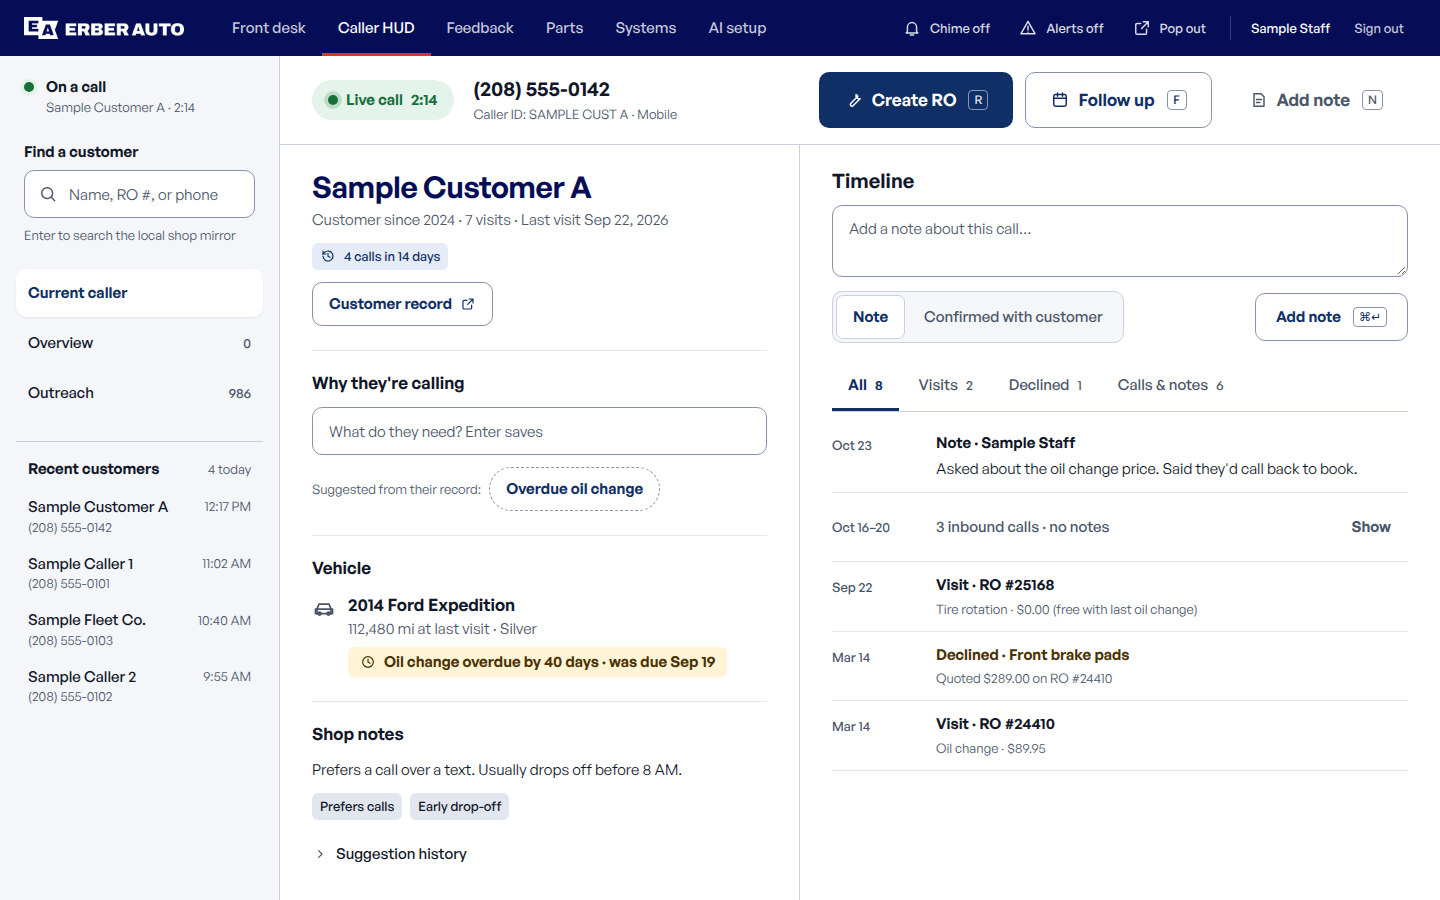
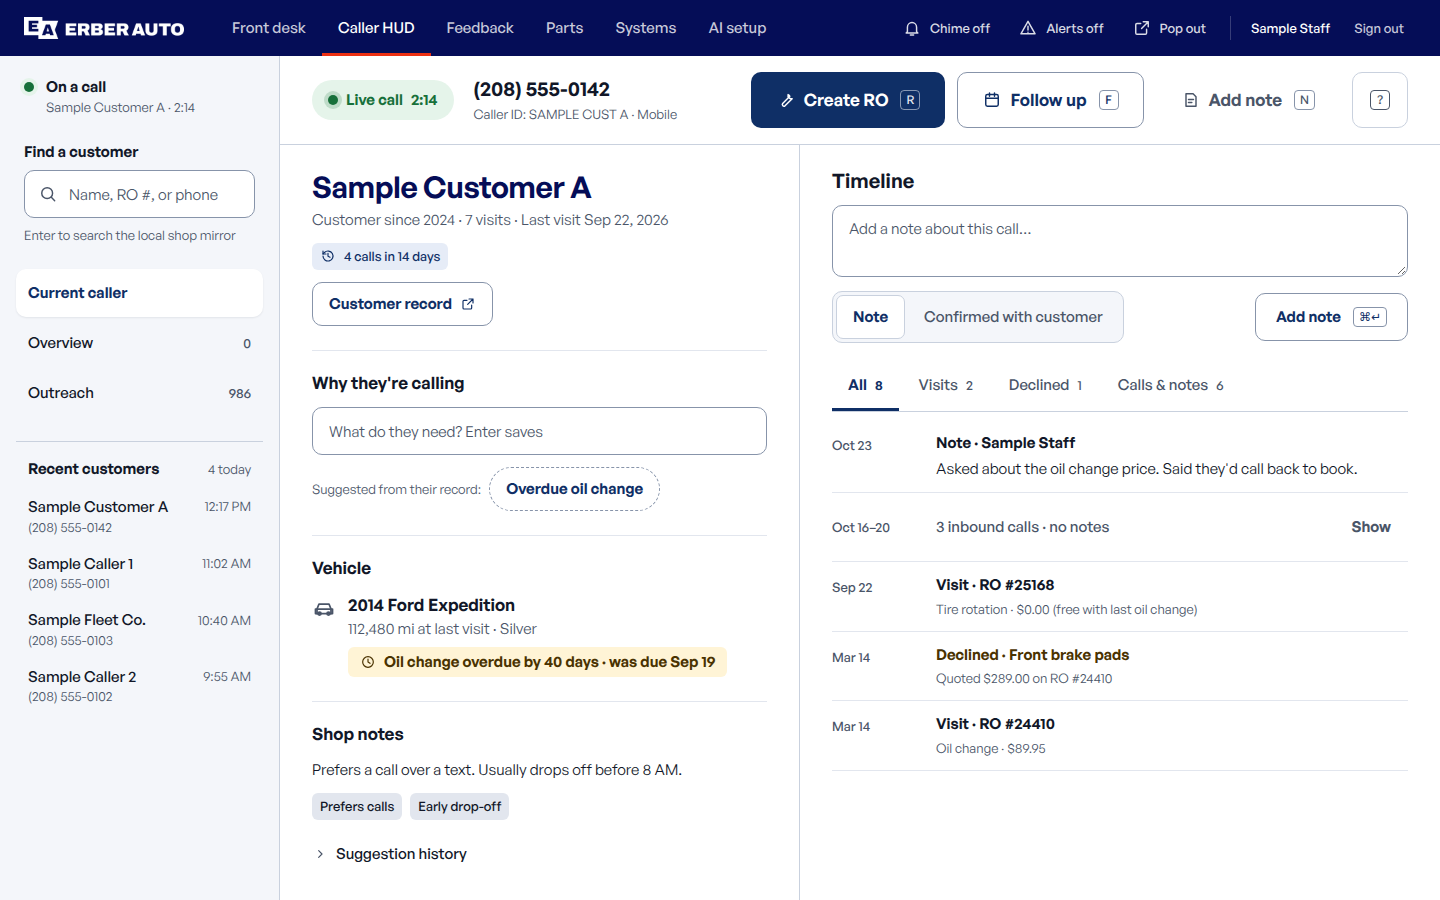
Caller HUD hill-climb round 5: keyboard shortcut sheet

Changed region(s): [[0.5, 0.0622, 0.9688, 0.1556]]

diff --git a/caller-hud-review/mockup.html b/caller-hud-review/mockup.html
@@ -24,6 +24,7 @@
     <symbol id="i-car" viewBox="0 0 24 24"><path d="M5 16.5V12l2-5h10l2 5v4.5"/><path d="M3.5 12h17v4.5h-17Z"/><circle cx="7.5" cy="16.5" r="1.5"/><circle cx="16.5" cy="16.5" r="1.5"/></symbol>
     <symbol id="i-user-plus" viewBox="0 0 24 24"><circle cx="10" cy="8.5" r="3.5"/><path d="M3.5 19.5a6.5 6.5 0 0 1 13 0"/><path d="M18.5 8v6M15.5 11h6"/></symbol>
     <symbol id="i-link" viewBox="0 0 24 24"><path d="M10 14a4 4 0 0 0 5.7 0l3-3a4 4 0 0 0-5.7-5.7l-1 1"/><path d="M14 10a4 4 0 0 0-5.7 0l-3 3a4 4 0 0 0 5.7 5.7l1-1"/></symbol>
+    <symbol id="i-close" viewBox="0 0 24 24"><path d="m6.5 6.5 11 11M17.5 6.5l-11 11"/></symbol>
     <symbol id="i-chevron" viewBox="0 0 24 24"><path d="m7 10 5 5 5-5"/></symbol>
     <symbol id="i-clock" viewBox="0 0 24 24"><circle cx="12" cy="12" r="8"/><path d="M12 7.5V12l3 2"/></symbol>
     <symbol id="i-history" viewBox="0 0 24 24"><path d="M4.5 12a7.5 7.5 0 1 0 2.2-5.3L4.5 9"/><path d="M4.5 4.5V9H9M12 8v4.5l3 1.5"/></symbol>
@@ -116,11 +117,13 @@
         <button class="btn btn-primary btn-lg" aria-keyshortcuts="r"><svg class="ico" aria-hidden="true"><use href="#i-wrench"/></svg>Create RO <kbd aria-hidden="true">R</kbd></button>
         <button class="btn btn-secondary btn-lg" aria-keyshortcuts="f"><svg class="ico" aria-hidden="true"><use href="#i-calendar"/></svg>Follow up <kbd aria-hidden="true">F</kbd></button>
         <button class="btn btn-ghost btn-lg" aria-keyshortcuts="n"><svg class="ico" aria-hidden="true"><use href="#i-note"/></svg>Add note <kbd aria-hidden="true">N</kbd></button>
+        <button class="keys-btn" popovertarget="shortcuts" aria-keyshortcuts="?" aria-label="Keyboard shortcuts"><kbd aria-hidden="true">?</kbd></button>
       </div>
       <div class="call-actions" data-only="unknown">
         <button class="btn btn-primary btn-lg"><svg class="ico" aria-hidden="true"><use href="#i-user-plus"/></svg>Create customer</button>
         <button class="btn btn-secondary btn-lg"><svg class="ico" aria-hidden="true"><use href="#i-link"/></svg>Link to a customer</button>
         <button class="btn btn-ghost btn-lg" aria-keyshortcuts="n"><svg class="ico" aria-hidden="true"><use href="#i-note"/></svg>Add note <kbd aria-hidden="true">N</kbd></button>
+        <button class="keys-btn" popovertarget="shortcuts" aria-keyshortcuts="?" aria-label="Keyboard shortcuts"><kbd aria-hidden="true">?</kbd></button>
       </div>
     </section>
 
@@ -263,12 +266,32 @@
   </main>
 </div>
 
+<div id="shortcuts" class="sheet" popover aria-labelledby="sheet-h">
+  <div class="sheet-head">
+    <h2 id="sheet-h">Keyboard shortcuts</h2>
+    <button class="btn btn-ghost btn-icon" popovertarget="shortcuts" popovertargetaction="hide" aria-label="Close">
+      <svg class="ico" aria-hidden="true"><use href="#i-close"/></svg>
+    </button>
+  </div>
+  <dl class="sheet-list">
+    <div><dt>Create RO for this caller</dt><dd><kbd>R</kbd></dd></div>
+    <div><dt>Schedule a follow up</dt><dd><kbd>F</kbd></dd></div>
+    <div><dt>Jump to the note box</dt><dd><kbd>N</kbd></dd></div>
+    <div><dt>Save the note</dt><dd><kbd>⌘</kbd><kbd>↵</kbd></dd></div>
+    <div><dt>Save why they're calling</dt><dd><kbd>↵</kbd></dd></div>
+    <div><dt>Show or hide this list</dt><dd><kbd>?</kbd></dd></div>
+  </dl>
+  <p class="sheet-foot">Shortcuts work whenever you're not typing in a field. Esc leaves a field.</p>
+</div>
+
 <script>
-  const state = new URLSearchParams(location.search).get('state') || 'live';
+  const requested = new URLSearchParams(location.search).get('state') || 'live';
+  const state = requested === 'shortcuts' ? 'live' : requested;
   document.body.dataset.state = state;
   document.querySelectorAll('[data-only]').forEach(el => {
     el.hidden = !el.dataset.only.split(' ').includes(state);
   });
+  if (requested === 'shortcuts') document.getElementById('shortcuts').showPopover();
 </script>
 </body>
 </html>

diff --git a/caller-hud-review/hud.css b/caller-hud-review/hud.css
@@ -26,6 +26,15 @@
 .callerid { font-size: var(--text-xs); color: var(--color-text-muted); margin-top: var(--space-1); }
 .call-actions { display: flex; gap: var(--space-3); flex: none; }
 
+.keys-btn {
+  display: inline-flex; align-items: center; justify-content: center;
+  width: var(--tap-primary); min-height: var(--tap-primary);
+  background: none; border: 1px solid var(--color-border); border-radius: var(--radius-md);
+  color: var(--color-text-muted);
+}
+.keys-btn:hover { background: var(--color-bg); border-color: var(--color-border-strong); }
+.sheet { inset: calc(var(--topbar-h) + 88px) var(--space-8) auto auto; }
+
 /* ---------- Two columns ---------- */
 .hud { flex: 1; min-height: 0; display: grid; grid-template-columns: var(--cust-w) minmax(0, 1fr); }
 .cust { background: var(--color-surface); border-right: 1px solid var(--color-border); overflow: auto; padding: var(--space-6) var(--space-8) var(--space-8); }
